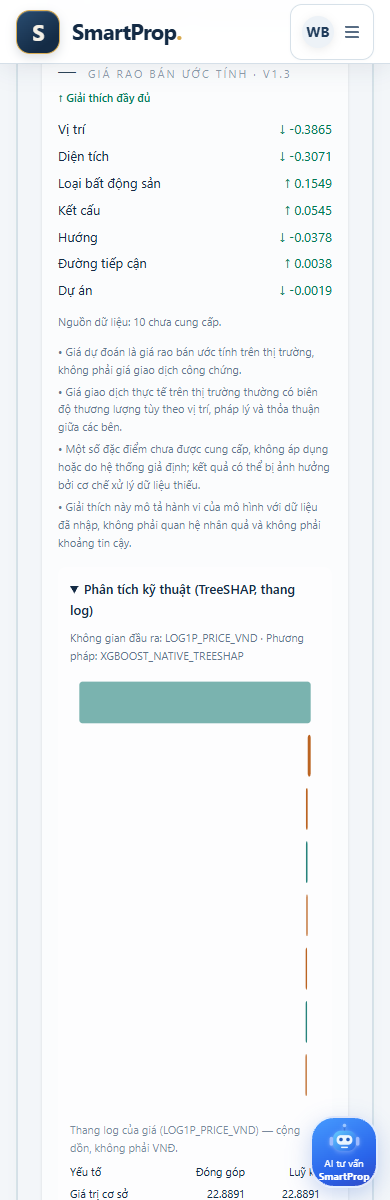
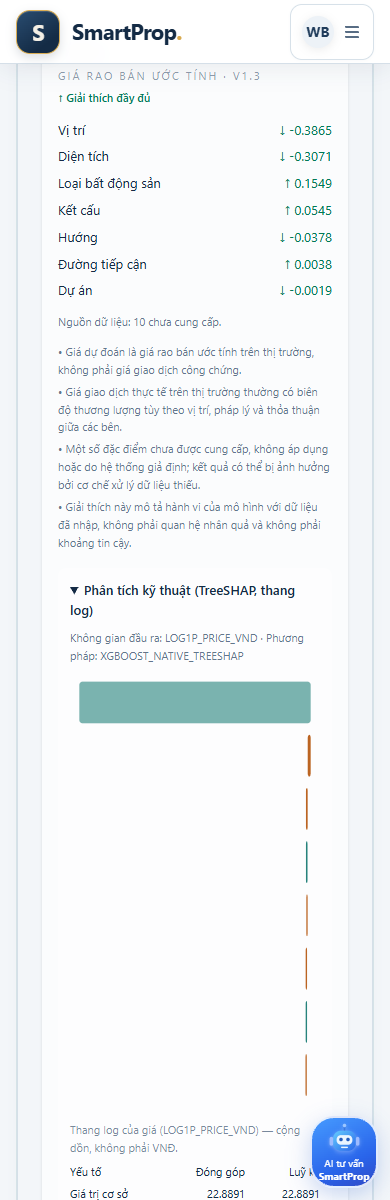
fix(ui): render authoritative VND prices from canonical digit strings
priceBlock only accepted JavaScript numbers, so an exact integer delivered as a string rendered a
placeholder dash while the browser assertion still passed. The price now resolves through vndDigits
(safe integers, canonical digit strings and zero-fraction decimal strings), keeps the existing
formatter for short values and uses exact BigInt arithmetic for long ones, so no digit is lost.

The browser check requires real digits and rejects the dash, and six tests assert the rendered price
element for numbers, Spring decimal strings, long canonical strings, invalid inputs, a one-VND
mismatch and an UNAVAILABLE explanation. Five obsolete V6 labels in the unified advisor now read V1.3.

Fresh: WP-04 94, frontend 341, real three-surface browser 328/328, component 484/484, mocked 30/0/3,
Spring 285 with no failures, FastAPI 1230 passed 20 skipped, WP-02 12 groups, benchmark digest
unchanged, Vite build pass.

diff --git a/frontend/src/features/prediction/UnifiedAdvisorView.jsx b/frontend/src/features/prediction/UnifiedAdvisorView.jsx
@@ -70,7 +70,7 @@ export default function UnifiedAdvisorView() {
         <h1 id="advisor-title">Tư vấn bất động sản đa bằng chứng</h1>
         <p>
           Kết hợp xếp hạng phù hợp theo nhu cầu &amp; tiện ích khu vực (Hybrid V1.1), bằng chứng bất động sản tương đồng
-          và định giá tham chiếu độc lập XGBoost V6 kèm giải thích TreeSHAP trong một luồng tư vấn thống nhất.
+          và định giá tham chiếu độc lập XGBoost V1.3 kèm giải thích TreeSHAP trong một luồng tư vấn thống nhất.
         </p>
       </div>
 
@@ -204,7 +204,7 @@ export default function UnifiedAdvisorView() {
           <div className="evidence-options">
             <label className="check-pill">
               <input type="checkbox" checked={form.includeValuation} onChange={(e) => controller.patch('includeValuation', e.target.checked)} />
-              <span>Định giá tham chiếu XGBoost V6 &amp; giải thích TreeSHAP</span>
+              <span>Định giá tham chiếu XGBoost V1.3 &amp; giải thích TreeSHAP</span>
             </label>
             <label className="check-pill">
               <input type="checkbox" checked={form.includeComparables} onChange={(e) => controller.patch('includeComparables', e.target.checked)} />
@@ -217,7 +217,7 @@ export default function UnifiedAdvisorView() {
           </datalist>
 
           <div className="form-footer">
-            <p>Điểm phù hợp và định giá V6 là bằng chứng hỗ trợ quyết định độc lập; không thay thế thẩm định pháp lý hoặc khảo sát thực địa.</p>
+            <p>Điểm phù hợp và định giá V1.3 là bằng chứng hỗ trợ quyết định độc lập; không thay thế thẩm định pháp lý hoặc khảo sát thực địa.</p>
             <div className="form-actions">
               <button className="advisor-btn secondary" type="button" onClick={() => controller.reset()}>Đặt lại</button>
               <button className="advisor-btn primary" type="submit" data-advisor-submit>{busy ? 'Đang tổng hợp tư vấn…' : 'Nhận tư vấn AI'}</button>
@@ -241,7 +241,7 @@ export default function UnifiedAdvisorView() {
           <span className="loading-spinner" aria-hidden="true" />
           <div>
             <strong>Đang phân tích nhu cầu &amp; đối chiếu bằng chứng…</strong>
-            <p>Đang xếp hạng khu vực, bất động sản phù hợp, mẫu tương đồng và mô hình định giá V6.</p>
+            <p>Đang xếp hạng khu vực, bất động sản phù hợp, mẫu tương đồng và mô hình định giá V1.3.</p>
           </div>
         </div>
       ) : null}
@@ -266,7 +266,7 @@ export default function UnifiedAdvisorView() {
           <strong>Quy trình tư vấn minh bạch &amp; không tự bịa số liệu</strong>
           <p>
             Nhấn “Nhận tư vấn AI” để xem tối đa 5 khu vực phù hợp nhất và danh sách bất động sản kèm điểm thành phần,
-            tiện ích khu vực, mẫu tương đồng thực tế và mức định giá tham chiếu XGBoost V6 giải thích bằng TreeSHAP.
+            tiện ích khu vực, mẫu tương đồng thực tế và mức định giá tham chiếu XGBoost V1.3 giải thích bằng TreeSHAP.
           </p>
         </div>
       ) : null}

diff --git a/frontend/tests/wp04/explanationPrice.test.js b/frontend/tests/wp04/explanationPrice.test.js
@@ -19,6 +19,10 @@ const here = dirname(fileURLToPath(import.meta.url));
 const samples = JSON.parse(readFileSync(join(here, "fixtures/explanation-samples.json"), "utf8"));
 const clone = (value) => JSON.parse(JSON.stringify(value));
 const render = (props) => renderToStaticMarkup(ValuationExplanationPanel(props));
+const renderedPrice = (html) => {
+  const match = /data-testid="explanation-price"[^>]*>([^<]*)</.exec(html);
+  return match ? match[1].trim() : "";
+};
 const house = () => clone(samples.HOUSE.explanation);
 
 // ---------------------------------------------------------------- normalizeVnd
@@ -146,4 +150,50 @@ test("an invalid adjusted price cannot silently bypass consistency", () => {
   payload.calibration.adjusted_price_vnd = Number.NaN;
   const result = validateExplanation(payload, { priceVnd: price });
   assert.equal(result.status, STATUS.INVALID, "must reject instead of returning null digits");
+});
+
+// ---------------------------------------------------------------- rendered price text
+test("the panel renders a valid numeric point price", () => {
+  const html = render({ predictedPriceVnd: 5476531536, modelVersion: "v1.3", explanation: house() });
+  assert.match(renderedPrice(html), /\d/);
+  assert.notEqual(renderedPrice(html), "—");
+});
+
+test("the panel renders a Spring decimal string without losing the integer", () => {
+  const html = render({ predictedPriceVnd: "5476531536.00", modelVersion: "v1.3", explanation: house() });
+  assert.match(renderedPrice(html), /\d/);
+});
+
+test("a long canonical digit string renders exactly", () => {
+  const html = render({
+    predictedPriceVnd: "123456789012345", modelVersion: "v1.3", explanation: house(),
+  });
+  const text = renderedPrice(html);
+  // 123456789012345 VND keeps its integer part exactly: 123.456 tỷ in vi-VN grouping
+  assert.match(text, /123[\.\s]?456/, text);
+  assert.equal(text.includes("—"), false, text);
+});
+
+test("invalid point prices render the placeholder, never a fabricated number", () => {
+  for (const bad of [0, -1, 1.5, "abc", "0", null, undefined, {}, true, Number.NaN]) {
+    const html = render({ predictedPriceVnd: bad, modelVersion: "v1.3", explanation: house() });
+    assert.equal(renderedPrice(html), "—", `rendered a price for ${String(bad)}`);
+  }
+});
+
+test("a one-VND mismatch keeps the authoritative price visible and flags inconsistency", () => {
+  const payload = house();
+  payload.calibration.adjusted_price_vnd = 5476531537;
+  const html = render({ predictedPriceVnd: 5476531536, modelVersion: "v1.3", explanation: payload });
+  assert.match(renderedPrice(html), /\d/);
+  assert.match(html, /data-explanation-status="INCONSISTENT"/);
+});
+
+test("an UNAVAILABLE explanation still shows a valid point price", () => {
+  const html = render({
+    predictedPriceVnd: 5476531536,
+    modelVersion: "v1.3",
+    explanation: { status: "UNAVAILABLE", reason: "Không đủ dữ liệu." },
+  });
+  assert.match(html, /5,4[0-9]?\s*tỷ/);
 });

diff --git a/frontend/src/features/prediction/ValuationExplanationPanel.js b/frontend/src/features/prediction/ValuationExplanationPanel.js
@@ -71,8 +71,31 @@ function statusText(status) {
   }
 }
 
+/** Canonical VND digits for a point price: safe integers and canonical digit strings only. */
+function priceDigits(value) {
+  const digits = vndDigits(value);
+  if (digits) return digits;
+  // Spring may serialise an exact integer as a decimal string with a zero fraction.
+  if (typeof value === "string") {
+    const match = /^([1-9]\d{0,29})\.0+$/.exec(value.trim());
+    if (match) return match[1];
+  }
+  return null;
+}
+
+/** Format canonical digits as tỷ with exact BigInt arithmetic, so long values keep every digit. */
+function formatBillionDigits(digits) {
+  const value = BigInt(digits);
+  const billion = 1000000000n;
+  const whole = value / billion;
+  const fraction = ((value % billion) * 100n) / billion;
+  const cents = fraction.toString().padStart(2, "0").replace(/0+$/, "");
+  return cents ? `${whole},${cents} tỷ` : `${whole} tỷ`;
+}
+
 function priceBlock({ predictedPriceVnd, modelVersion }) {
-  const hasPrice = typeof predictedPriceVnd === "number" && Number.isFinite(predictedPriceVnd);
+  const digits = priceDigits(predictedPriceVnd);
+  const hasPrice = digits !== null;
   return h(
     "div",
     { className: "flex min-w-0 flex-wrap items-baseline gap-x-3 gap-y-1" },
@@ -83,7 +106,11 @@ function priceBlock({ predictedPriceVnd, modelVersion }) {
         "aria-live": "polite",
         className: "text-lg font-light break-words",
       },
-      hasPrice ? formatBillion(predictedPriceVnd) : "—",
+      hasPrice
+      ? (digits.length <= 15 && Number.isSafeInteger(Number(digits))
+          ? formatBillion(Number(digits))
+          : formatBillionDigits(digits))
+      : "—",
     ),
     hasPrice
       ? h("span", { className: "min-w-0 text-xs break-words text-brand-navy/60" },

diff --git a/docs/ai/SMARTPROP_WP04_B6_B7_RUNTIME_EVIDENCE.md b/docs/ai/SMARTPROP_WP04_B6_B7_RUNTIME_EVIDENCE.md
@@ -373,3 +373,49 @@ contract, only `/api/` failures count.
 Not run in this session, therefore not claimed: WP-02's 12 Chromium groups, full FastAPI serial,
 full RAG, full Spring Boot, isolated MySQL integration tests, UI failure isolation and browser-level
 reactive authorization. `AdvisorControllerLiveIT` remains excluded (legacy V6/TiniX assertions).
+
+---
+
+## Final acceptance regression
+
+### Display finding closed
+
+`priceBlock()` in `ValuationExplanationPanel.js` only accepted JavaScript numbers, so an exact
+integer arriving as a string rendered `—` while the assertion still passed. It now resolves the point
+price through `vndDigits` (safe integers and canonical digit strings, plus a zero-fraction decimal
+string such as `5476531536.00`), formats short values through the existing `formatBillion` and long
+values through exact BigInt arithmetic so every digit survives, and renders `—` only when no valid
+VND value exists.
+
+Assertions moved with it: the browser check now requires real digits and rejects a placeholder dash,
+and six new tests assert the **rendered price element** for a number, a Spring decimal string, a long
+canonical string, invalid inputs (0, negative, fractional, `NaN`, text, objects, booleans), a one-VND
+mismatch (price still visible, `data-explanation-status="INCONSISTENT"`) and an UNAVAILABLE
+explanation with a valid price.
+
+Five obsolete `V6` labels in `UnifiedAdvisorView.jsx` now read `V1.3`; no valuation behaviour changed.
+
+### Results in this session
+
+| Suite | Result |
+|---|---|
+| WP-04 frontend tests (`tests/wp04/*.test.js`) | **94 passed, 0 failed** |
+| Full frontend recursive | **341 passed, 0 failed** |
+| Real three-surface browser (1280/320/390/768/1440) | **328/328 passed** |
+| Component browser (`run.mjs`) | **484/484 passed** |
+| Mocked route surfaces (`surfaces.mjs`) | **30 passed, 0 failed, 3 not run** |
+| Spring Boot (`mvnw -o test`) | **285 tests, 0 failures, 0 errors**, BUILD SUCCESS |
+| FastAPI serial (full `tests/`) | **1230 passed, 20 skipped, 105 subtests** |
+| WP-02 Chromium | **12 groups PASS** |
+| WP-04 Python (contract + HTTP + matrix) | **51 passed** |
+| Phase A benchmark | **105 + 15 extras**, digest `9eedb3c7c3668f61` unchanged |
+| Vite build | PASS |
+| V1.3 artifacts | 4/4 unchanged · migrations 0 changes |
+
+### Not run (explicit)
+
+Browser-level failure isolation (missing/UNAVAILABLE/malformed explanation, one-VND mismatch,
+reconstruction mismatch, stale response, account lock, account replacement/authTransition,
+research revocation, live FastAPI outage through the UI), browser-level reactive authorization, and
+the isolated MySQL integration profile. `AdvisorControllerLiveIT` stays excluded: it asserts the
+legacy V6 contract and enables TiniX, so it is not a V1.3 acceptance test.
